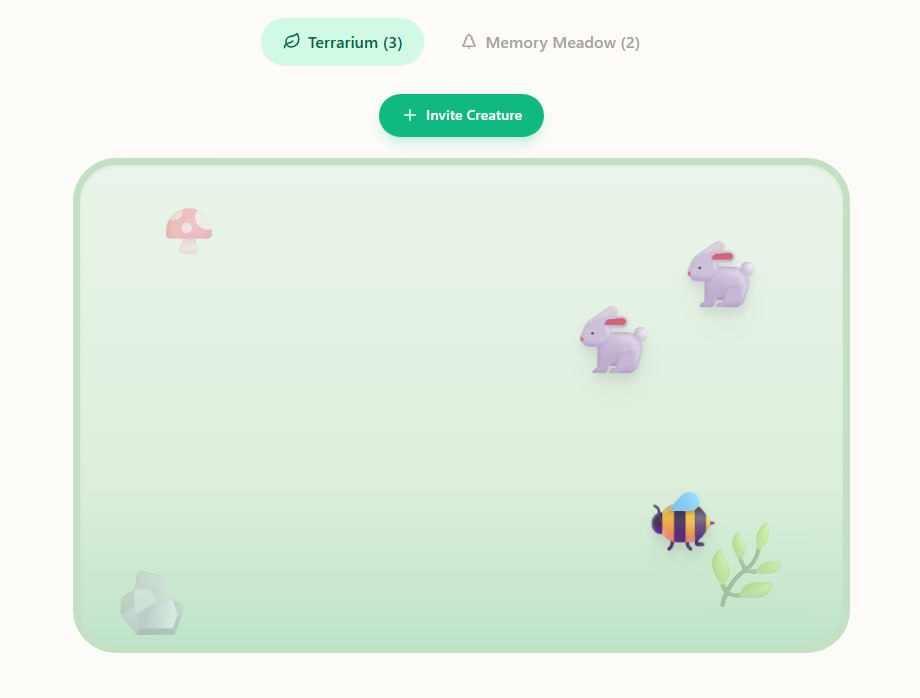
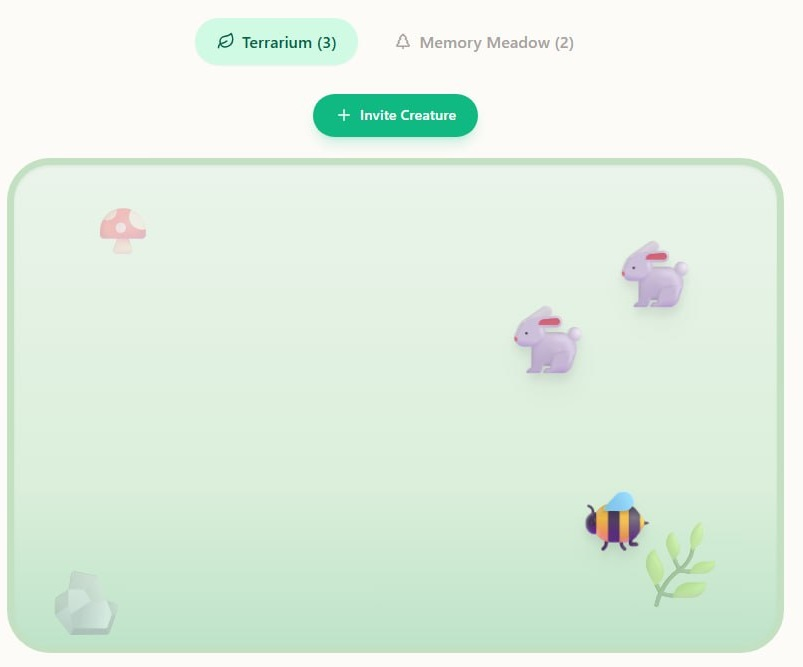
upd

diff --git a/index.html b/index.html
@@ -63,9 +63,9 @@
           </div>
         </section>
         <div class="agent-message"><span class="agent-message-icon" aria-hidden="true">✦</span><div><span class="agent-message-label">INCOMING MESSAGE</span><p id="typewriter-text" class="profile-greeting"></p></div><span class="agent-message-light" aria-hidden="true"></span></div>
-        <section class="field-journal home-journal" aria-labelledby="latest-notes-title"><div class="section-heading"><div><p class="eyebrow">FROM MY DESK</p><h2 id="latest-notes-title">Field notes</h2></div><a class="archive-button" href="#field-notes">View archive →</a></div><div id="latest-field-notes"></div></section>
-        <section class="selected-projects" aria-labelledby="selected-title">
-          <h2 id="selected-title" class="research-highlight-label">Current research highlight</h2>
+        <section class="field-journal home-journal" aria-labelledby="latest-notes-title"><div class="section-heading"><div><h2 id="latest-notes-title">Latest activities</h2><p>Papers, talks, games, and community updates.</p></div></div><div id="latest-field-notes"></div><div class="journal-footer"><a class="archive-button" href="#field-notes">View all activities · Archive →</a></div></section>
+        <section class="selected-projects" aria-label="Branch Beetle">
+          
           <div id="featured-projects" class="project-grid"></div>
         </section>
 
@@ -153,14 +153,14 @@
         
         
 
-        <section class="inner-box guild-jam"><span class="bulletin-pin" aria-hidden="true">📌</span><h3 data-content="guild.jam.title"></h3><p data-content="guild.jam.date"></p><p data-content="guild.jam.description"></p><figure class="jam-submissions"><a href="images/girtjam_submissions.png" target="_blank" rel="noopener" aria-label="View full-size game jam submissions image"><img src="images/girtjam_submissions.png" alt="The five jam submissions: Before I Grow Roots, A Family Reunion, We Shall Not Despair, To live in darkness, and Taking Care."></a><figcaption>Five games made during the jam · <a href="images/girtjam_submissions.png" target="_blank" rel="noopener">View image at full size ↗</a></figcaption></figure><a class="btn" data-content-href="guild.jam.link" data-content="guild.jam.buttonLabel" target="_blank" rel="noopener"></a></section>
+        <section class="inner-box guild-jam"><span class="bulletin-pin" aria-hidden="true">📌</span><h3 data-content="guild.jam.title"></h3><p data-content="guild.jam.date"></p><p data-content="guild.jam.description"></p><figure class="jam-submissions"><a href="https://itch.io/jam/games-intersectional-jam-2026/entries" target="_blank" rel="noopener" aria-label="Play the game jam submissions on itch.io"><img src="images/girtjam_submissions.png" alt="The five jam submissions: Before I Grow Roots, A Family Reunion, We Shall Not Despair, To live in darkness, and Taking Care."></a><figcaption>Five games made during the jam · <a href="images/girtjam_submissions.png" target="_blank" rel="noopener">View image at full size ↗</a></figcaption></figure><a class="btn" data-content-href="guild.jam.link" data-content="guild.jam.buttonLabel" target="_blank" rel="noopener"></a></section>
         <div class="inner-box" style="text-align: center;">
           <div class="bulletin-pin">📌</div>
           <h3 style="margin-top: 5px;" data-content="guild.event.title"></h3>
           <p data-content="guild.event.description"></p>
           
           <div class="img-frame" style="max-width: 250px; margin: 15px auto; border: 3px solid #8D6E63; transform: rotate(2deg); box-shadow: 2px 2px 8px rgba(0,0,0,0.2);">
-            <img onerror="this.style.display='none'" data-content-src="guild.event.image" data-content-alt="guild.event.imageAlt" style="display: none;">
+            <a data-content-href="guild.event.zineLink" target="_blank" rel="noopener" aria-label="Open the GIS 2025 zine"><img onerror="this.style.display='none'" data-content-src="guild.event.image" data-content-alt="guild.event.imageAlt" style="display: none;"></a>
           </div>
           
           <a class="btn" target="_blank" data-content-href="guild.event.link" data-content="guild.event.buttonLabel"></a>
@@ -227,12 +227,12 @@
   </nav>
 
   <template id="game-card-template"><div class="card-item">
-            <div class="card-cost"></div>
+            
             <div class="img-frame"><img alt="" onerror="this.style.display='none';"></div>
             <h3></h3>
             <div class="tags"></div>
             <p class="game-description"></p>
-            <a class="btn" target="_blank">PLAY CARD</a>
+            <a class="btn" target="_blank">Play</a>
           </div></template><template id="course-card-template"><div class="inner-box">
             <h3></h3>
             <div class="tags"></div>

diff --git a/style.css b/style.css
@@ -741,3 +741,52 @@ body, .img-frame { cursor: auto; }
 #community-event, #research-experiments { scroll-margin-top: 95px; }
 .research-return { text-align: right; font-size: 14px; margin: 18px 0; }
 @media(max-width:600px) { .agent-message { padding: 16px; gap: 12px; } .agent-message-light { display: none; } .research-menu a { flex: 1 1 120px; text-align: center; } }
+
+/* Clear separation between page navigation and in-page reading links. */
+.research-menu { display: block; border: 0; border-left: 3px solid #8dafce; border-radius: 0; background: transparent; padding: 4px 0 4px 18px; }
+.research-menu > span { display: block; margin-bottom: 6px; }
+.research-menu a { display: inline-block; padding: 7px 0; margin-right: 22px; border: 0; border-radius: 0; background: transparent; text-decoration: underline; text-underline-offset: 4px; font-size: 16px; text-align: left; }
+.research-menu a::before { content: '↓ '; }
+.research-menu a:hover { background: transparent; color: #16395a; }
+.journal-footer { margin-top: 24px; padding-top: 22px; border-top: 1px solid #e8a9d0; text-align: center; }
+.game-image-link { display: block; }
+.game-image-link:focus-visible { outline: 3px solid #ffe084; outline-offset: 4px; }
+.dock-icon { min-width: 88px; min-height: 62px; padding: 10px 12px; font: bold 13px 'Atkinson Hyperlegible', sans-serif; }
+.dock-art { font-size: 23px; }
+.top-bar { z-index: 1100; }
+[data-theme="horror"] .top-bar { background: #202822; color: #f2eedf; border-bottom-color: #b6c9b9; }
+[data-theme="horror"] .top-bar .corrupt-btn { color: #fff4bd; border: 1px solid #b6c9b9; border-radius: 5px; padding: 10px; background: #354539; }
+.corrupt-btn:focus-visible { outline: 2px solid currentColor; outline-offset: 3px; }
+.desktop-area { margin-bottom: 150px; }
+@media(max-width:600px) {
+  .dock-icon { min-width: 0; min-height: 58px; padding: 7px 3px; font-size: 12px; }
+  .dock-art { font-size: 22px; }
+  .desktop-area { margin-bottom: 190px; }
+  .research-menu a { display: block; margin-right: 0; text-align: left; }
+}
+
+/* Keep the reading menu available without covering section headings. */
+#phd { overflow: clip; }
+#research-menu { position: sticky; top: 62px; z-index: 30; background: #f3f8ff; padding: 10px 16px; box-shadow: 0 3px 8px #244d741a; }
+#research-menu > span { margin: 0; }
+#research-menu a { margin-right: 18px; padding: 5px 0; }
+#community-event, #project-branch-beetle, #publications, #research-experiments { scroll-margin-top: 180px; }
+@media(max-width:600px) {
+  #research-menu { top: 58px; display: grid; grid-template-columns: 1fr 1fr; gap: 2px 12px; padding: 8px 12px; }
+  #research-menu > span { grid-column: 1 / -1; }
+  #research-menu a { font-size: 14px; margin: 0; line-height: 1.4; }
+  #community-event, #project-branch-beetle, #publications, #research-experiments { scroll-margin-top: 200px; }
+}
+
+/* A compact Sims-inspired control panel for the research page. */
+#research-menu { border: 2px solid #789cc7; border-radius: 22px 22px 12px 12px; background: linear-gradient(180deg, #f5fbff 0%, #daeaff 50%, #c3d9f5 100%); box-shadow: inset 0 2px 0 #fff, 0 3px 0 #829ebc, 0 5px 12px #25456926; padding: 10px 18px; }
+#research-menu > span { display: flex; align-items: center; gap: 10px; color: #315781; font-weight: bold; margin-bottom: 4px; }
+#research-menu > span::before { content: ''; width: 13px; height: 23px; background: linear-gradient(110deg, #c5ff99 0%, #77d342 48%, #328429 50%, #a5ed6d 100%); clip-path: polygon(50% 0, 100% 50%, 50% 100%, 0 50%); }
+#research-menu a { display: inline-block; padding: 6px 12px; margin: 2px 5px 2px 0; border: 1px solid #8cafd5; border-radius: 14px 14px 7px 7px; background: linear-gradient(#ffffffb3, #d3e5fb); box-shadow: inset 0 1px 0 #fff; text-decoration: none; color: #244e7a; }
+#research-menu a::before { content: none; }
+#research-menu a:hover, #research-menu a:focus-visible { background: #f6ffe9; border-color: #79a64c; color: #285827; }
+.activity-icon { display: inline-block; font-size: 21px; vertical-align: middle; margin-right: 3px; }
+@media(max-width:600px) {
+  #research-menu { padding: 8px 10px; gap: 2px 6px; }
+  #research-menu a { margin: 0; padding: 6px; font-size: 13px; }
+}

diff --git a/script.js b/script.js
@@ -176,8 +176,6 @@
     if (item.id) card.id = 'project-' + item.id;
     card.querySelector('h3').textContent = item.title;
     if (item.ribbon) { const ribbon = document.createElement('span'); ribbon.className = 'release-ribbon'; ribbon.textContent = item.ribbon; card.prepend(ribbon); }
-    card.querySelector('.card-cost').textContent = item.cost;
-    if (!item.cost) card.querySelector('.card-cost').remove();
     tags(card.querySelector('.tags'), item.tags);
     card.querySelector('p').textContent = item.description;
     const image = card.querySelector('img');
@@ -201,7 +199,8 @@
     };
     if (item.image) image.src = item.image;
     else hideImage();
-    const link = card.querySelector('a');
+    if (item.link) { const coverLink = document.createElement('a'); coverLink.href = item.link; coverLink.target = '_blank'; coverLink.rel = 'noopener'; coverLink.className = 'game-image-link'; coverLink.setAttribute('aria-label', 'Play ' + item.title); const frame = card.querySelector('.img-frame'); frame.replaceWith(coverLink); coverLink.append(frame); }
+    const link = card.querySelector('a.btn');
     if (item.link) {link.href = item.link; link.rel = 'noopener'; if (item.buttonLabel) link.textContent = item.buttonLabel;}
     else { link.remove(); const note = document.createElement('p'); note.className = 'game-availability'; note.textContent = 'Research prototype · playable version not yet available here'; card.append(note); }
     return card;
@@ -338,6 +337,8 @@ let isHorror = false;
 
     function toggleTheme() {
       isHorror = !isHorror;
+      document.querySelector('.corrupt-btn').textContent = isHorror ? 'uncorrupt' : 'corrupt.exe';
+      document.querySelector('.corrupt-btn').setAttribute('aria-pressed', String(isHorror));
       document.body.setAttribute('data-theme', isHorror ? 'horror' : 'light');
       
       const newLines = isHorror ? dialogLinesHorror : dialogLinesLight;
@@ -409,6 +410,10 @@ let isHorror = false;
     
     document.addEventListener('click', function(e) {
       if (!effectsEnabled || e.target.closest('#effects-toggle')) return;
+      if (e.target.closest('#project-branch-beetle, #home .selected-projects')) {
+        spawnParticle(e.clientX + 34, e.clientY, '🪲');
+        return;
+      }
       if (e.target.closest('.btn') || e.target.closest('.dock-icon') || e.target.closest('.window-controls') || e.target.closest('#avatar-frame') || e.target.closest('.tama-widget')) return;
 
       const texts = isHorror ? ['ERROR', '0xDEAD', 'glitch', '???'] : ['✨ +10', '🐸 +10', '🎀 +10', '💎 +10', '🗡 +10'];
@@ -468,7 +473,8 @@ let isHorror = false;
       particle.className = 'click-particle';
       particle.style.position = 'fixed';
       particle.style.fontFamily = '"Press Start 2P", monospace';
-      particle.style.fontSize = '10px';
+      particle.style.fontSize = text === '🪲' ? '26px' : '10px';
+      particle.setAttribute('aria-hidden', 'true');
       particle.style.pointerEvents = 'none';
       particle.style.zIndex = '1000';
       particle.style.animation = 'floatUp 1s forwards linear';

diff --git a/content.js b/content.js
@@ -101,8 +101,8 @@ window.SITE_CONTENT = {
   "teachingImage": "images/teaching.jpg",
   "teachingImageAlt": "Teaching about Camp",
   "guild": {
-    "title": "Town Hall: GIRT",
-    "description": "Games Intersectional Roundtables brings together marginalised people and allies across game studies, game making, art, and academia. Based in Austria and open internationally, we learn, share work, and play together.",
+    "title": "Games Intersectional Roundtables",
+    "description": "GIRT brings together marginalised people and allies across game studies, game making, art, and academia. Based in Austria and open internationally, we learn, share work, and play together.",
     "contactLabel": "Send Mail ✈",
     "contactLink": "mailto:gamesintersectional@gmail.com",
     "boardTitle": "Community Board",
@@ -127,6 +127,7 @@ window.SITE_CONTENT = {
       "description": "Our two-day online symposium on 19–20 September 2025 brought together talks, play, and shared perspectives.",
       "image": "images/gis25.jpg",
       "imageAlt": "GIS 2025 Zine Cover",
+      "zineLink": "https://www.canva.com/design/DAG1UCS6JZM/2xIakTkQnT5q7exdjXs5Nw/watch",
       "link": "https://gamesintersectional.github.io/gi-symposium25/",
       "buttonLabel": "Explore the symposium archive ↗"
     },
@@ -310,7 +311,6 @@ window.SITE_CONTENT = {
   "games": [
     {
       "title": "BEFORE I GROW ROOTS: AT ETERNITIES DOORSTEP",
-      "cost": "",
       "tags": [
         "POINT & CLICK",
         "10–20 MIN"
@@ -326,7 +326,6 @@ window.SITE_CONTENT = {
     },
     {
       "title": "MONSTER MATCH",
-      "cost": "1",
       "tags": [
         "JAM",
         "DATING SIM"
@@ -339,7 +338,6 @@ window.SITE_CONTENT = {
     },
     {
       "title": "UI & CHILL",
-      "cost": "0",
       "tags": [
         "COZY",
         "UI EXP"
@@ -352,7 +350,6 @@ window.SITE_CONTENT = {
     },
     {
       "title": "POTOYBIK: VILA'S WINGS",
-      "cost": "2",
       "tags": [
         "FOLKLORE",
         "EN/UKR"
@@ -365,7 +362,6 @@ window.SITE_CONTENT = {
     },
     {
       "title": "CURSE OF NARRATOR",
-      "cost": "X",
       "tags": [
         "JAM",
         "NARRATIVE"
@@ -378,7 +374,6 @@ window.SITE_CONTENT = {
     },
     {
       "title": "RESISTANCE",
-      "cost": "3",
       "tags": [
         "JAM",
         "NARRATIVE"

diff --git a/field-notes.js b/field-notes.js
@@ -23,6 +23,8 @@
     const meta = make('p', 'field-note-meta');
     const time = make(note.date ? 'time' : 'span', '', dateLabel(note));
     if (note.date) time.dateTime = note.date;
+    const icons = {'Talk': '🗣', 'Game jam': '🎮', 'Game': '🎮', 'Paper': '✍', 'Publication': '✍', 'Community': '🤝', 'Event': '🤝', 'Workshop': '🛠'};
+    if (compact && icons[note.category]) { const icon = make('span', 'activity-icon', icons[note.category]); icon.setAttribute('aria-hidden', 'true'); meta.append(icon, ' '); }
     meta.append(time, ' · ', note.category);
     article.append(meta, make(compact ? 'h3' : 'h4', '', note.title), make('p', 'field-note-description', note.description));
     if (note.link) {
